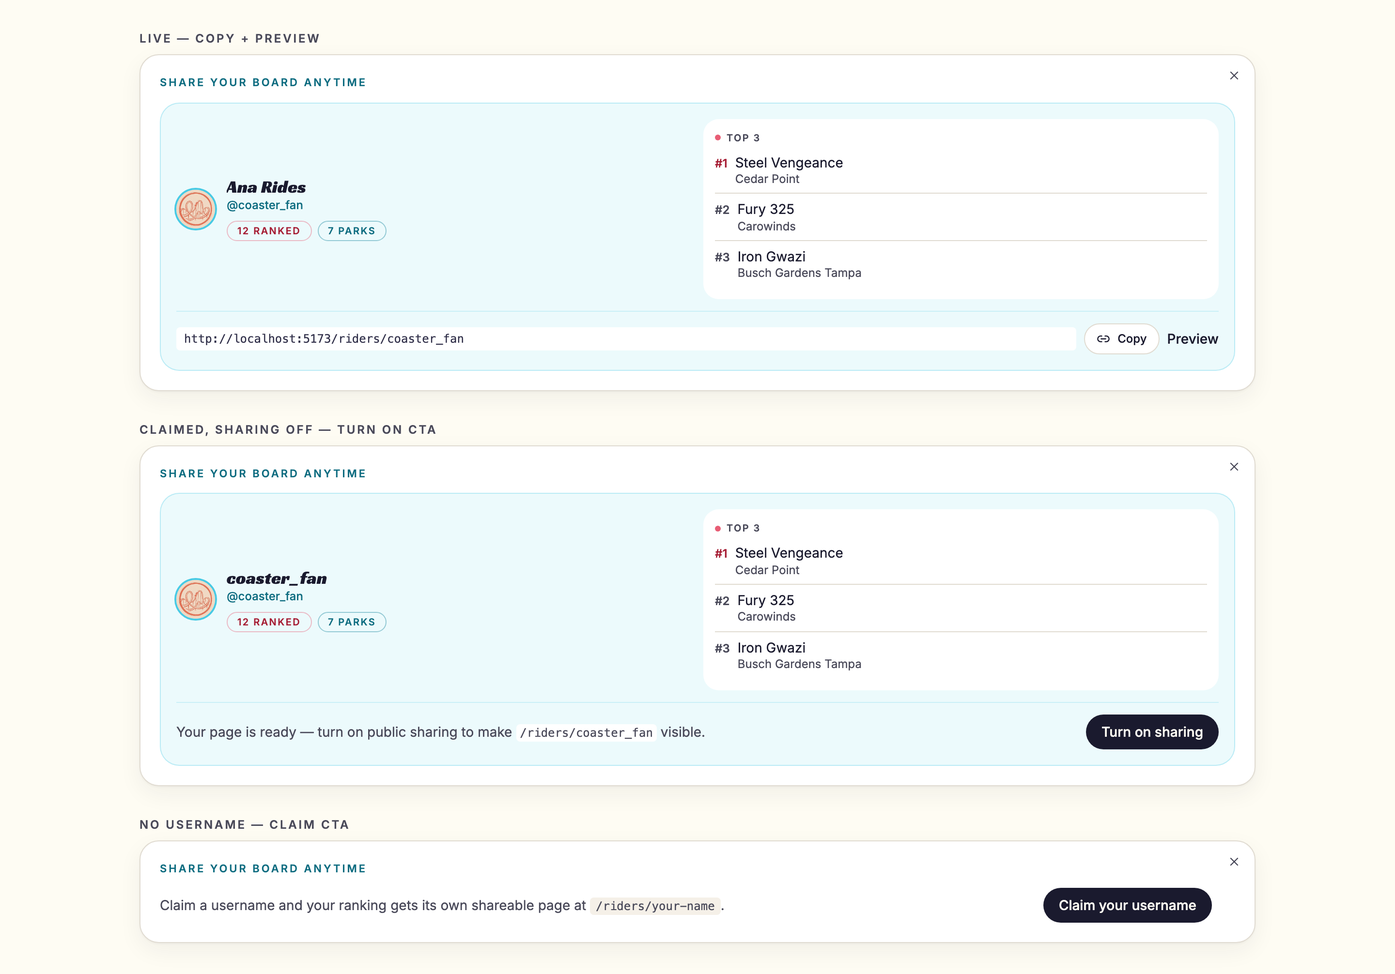
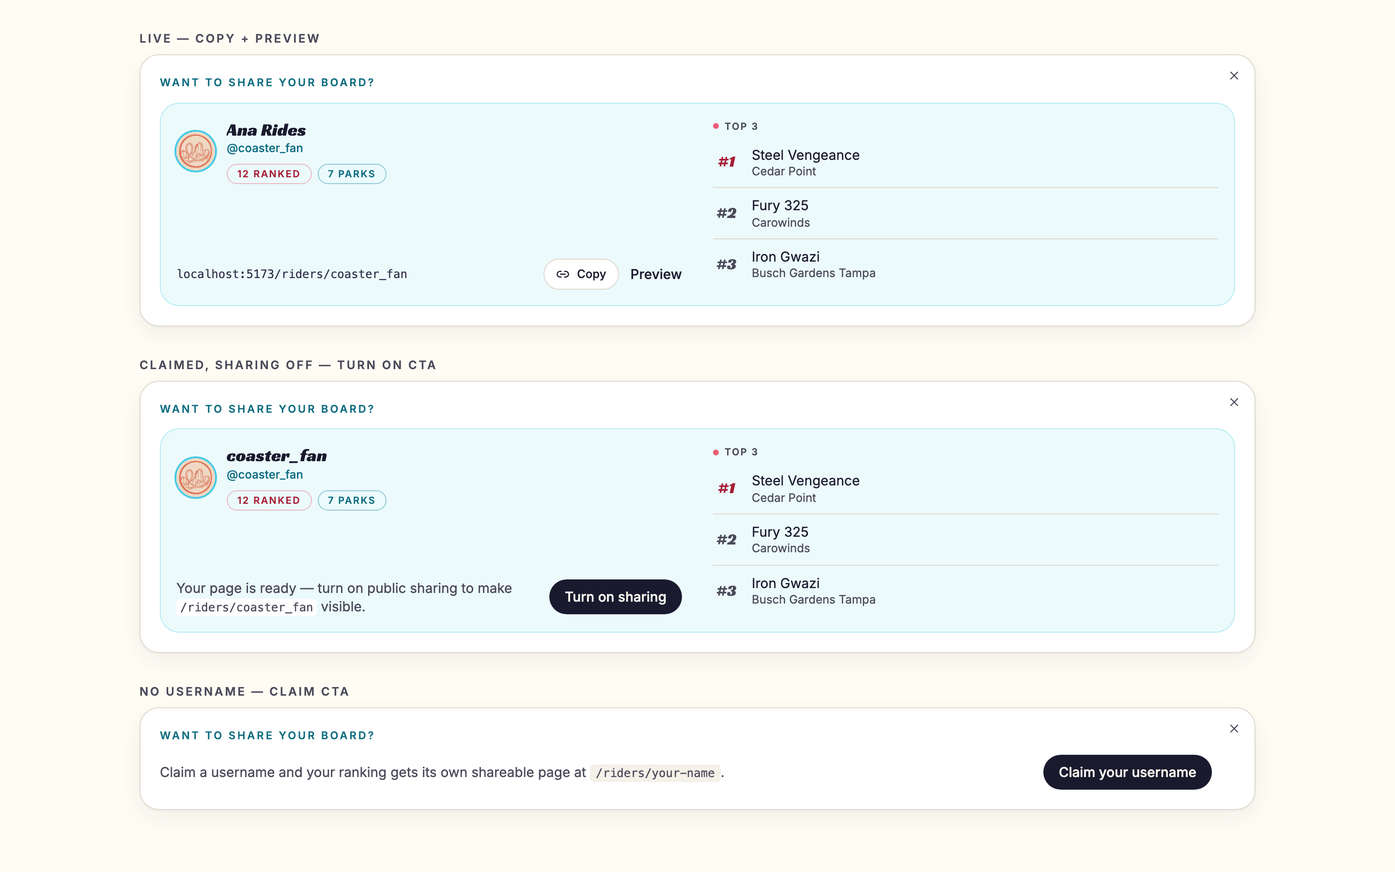
feat: flatten share-nudge card, brand-font ranks, mobile placement swap
Feedback round: drop the white inner panel — the top-3 rows sit
directly on the accent-tinted card (one layer, no cards-in-cards);
rank numerals switch to Racing Sans One with #1 coral, matching the
ranking list and OG card; the rider URL becomes plain mono text with
the protocol stripped (Copy still takes the full URL); url/copy/
preview tuck into the identity column's empty space instead of a
full-width row; eyebrow copy becomes "Want to share your board?".
On mobile the banner now renders between the title and the Import
list button (flex-wrap ordering) so Import stays adjacent to the
search/ranking machinery; desktop keeps Import top-right. The
no-username branch stays: signup collects a username but
handle_new_user() falls back to NULL on unique-violation races.
Preview shots refreshed.

diff --git a/app/src/components/ShareNudgeBanner.tsx b/app/src/components/ShareNudgeBanner.tsx
@@ -29,10 +29,11 @@ const pillCoral = `${pill} border-coral/40 text-coral-text`
 const pillCyan = `${pill} border-accent-dark/40 text-accent-ink`
 
 /**
- * The subtle share nudge on My Coasters: "Share your board anytime" over a
- * flat, simplified take on the rider OG share card — an accent-tinted
- * mini-card with the avatar, display-font name, ranked/parks pills, a live
- * top-3 mini table, and the copyable rider URL right in the card. The
+ * The subtle share nudge on My Coasters: "Want to share your board?" over a
+ * flat, simplified take on the rider OG share card — a single accent-tinted
+ * card with the avatar, display-font name, ranked/parks pills and the
+ * copyable rider URL + copy/preview tucked beneath, and the OG card's top-3
+ * rows (Racing Sans One ranks, #1 coral) directly on the tint. The
  * turn-on/claim CTA covers whatever step is still missing. Eligibility is
  * one-shot server-side (see lib/share-nudge.ts); dismissal is session-local
  * state only.
@@ -49,6 +50,8 @@ export default function ShareNudgeBanner({
   onDismiss,
 }: ShareNudgeBannerProps) {
   const url = username && publicList ? riderPageUrl(username) : null
+  // Display without the protocol — the copy button still copies the full URL.
+  const urlShown = url?.replace(/^https?:\/\//, '')
 
   return (
     <Panel className="relative p-4 sm:p-5" data-testid="share-nudge-banner">
@@ -62,13 +65,13 @@ export default function ShareNudgeBanner({
       </button>
 
       <p className="text-[11px] font-semibold uppercase tracking-[0.18em] text-accent-ink">
-        Share your board anytime
+        Want to share your board?
       </p>
 
       {username ? (
-        <div className="mt-3 rounded-xl border border-accent/30 bg-accent/10 p-3.5 pr-4 sm:p-4">
-          <div className="flex flex-wrap gap-3">
-            <div className="flex min-w-0 flex-1 basis-64 items-center gap-3">
+        <div className="mt-3 flex flex-wrap gap-x-8 gap-y-4 rounded-xl border border-accent/30 bg-accent/10 p-4">
+          <div className="flex min-w-0 flex-1 basis-72 flex-col justify-between gap-3">
+            <div className="flex items-center gap-3">
               <Avatar
                 src={avatarUrl}
                 userId={userId}
@@ -87,67 +90,67 @@ export default function ShareNudgeBanner({
               </div>
             </div>
 
-            {topThree.length > 0 && (
-              <div className="min-w-0 flex-1 basis-64 rounded-lg bg-surface-bright p-3">
-                <p className="flex items-center gap-1.5 text-[10px] font-semibold uppercase tracking-[0.12em] text-muted">
-                  <span className="h-1.5 w-1.5 rounded-full bg-coral" aria-hidden="true" />
-                  Top 3
+            {url ? (
+              <div className="flex flex-wrap items-center gap-x-3 gap-y-2">
+                <span className="w-full min-w-0 truncate font-mono text-xs text-ink-soft sm:w-auto sm:flex-1 sm:basis-40">
+                  {urlShown}
+                </span>
+                <CopyLinkButton url={url} label="Copy" />
+                <Link
+                  to={`/riders/${username}`}
+                  className="text-sm font-medium text-ink underline-offset-4 hover:underline"
+                >
+                  Preview
+                </Link>
+              </div>
+            ) : (
+              <div className="flex flex-wrap items-center justify-between gap-x-4 gap-y-2">
+                <p className="min-w-0 flex-1 basis-64 text-sm leading-snug text-muted">
+                  Your page is ready — turn on public sharing to make{' '}
+                  <code className="rounded bg-surface-bright px-1 py-0.5 font-mono text-xs">
+                    /riders/{username}
+                  </code>{' '}
+                  visible.
                 </p>
-                <ul className="mt-1 divide-y divide-line">
-                  {topThree.map((ride) => (
-                    <li key={ride.rank} className="flex items-baseline gap-2 py-1.5 first:pt-1">
-                      <span
-                        className={`text-xs font-semibold ${
-                          ride.rank === 1 ? 'text-coral-text' : 'text-muted'
-                        }`}
-                      >
-                        #{ride.rank}
-                      </span>
-                      <span className="min-w-0">
-                        <span className="block truncate text-sm leading-snug text-ink">
-                          {ride.name}
-                        </span>
-                        {ride.parkName && (
-                          <span className="block truncate text-xs leading-snug text-muted">
-                            {ride.parkName}
-                          </span>
-                        )}
-                      </span>
-                    </li>
-                  ))}
-                </ul>
+                <Link
+                  to="/me/profile"
+                  className="rounded-full bg-ink px-4 py-2 text-sm font-medium text-canvas transition-colors hover:bg-ink-soft"
+                >
+                  Turn on sharing
+                </Link>
               </div>
             )}
           </div>
 
-          {url ? (
-            <div className="mt-3 flex flex-wrap items-center gap-2 border-t border-accent/20 pt-3">
-              <code className="min-w-0 flex-1 truncate rounded bg-surface-bright px-2 py-1 font-mono text-xs text-ink-soft">
-                {url}
-              </code>
-              <CopyLinkButton url={url} label="Copy" />
-              <Link
-                to={`/riders/${username}`}
-                className="text-sm font-medium text-ink underline-offset-4 hover:underline"
-              >
-                Preview
-              </Link>
-            </div>
-          ) : (
-            <div className="mt-3 flex flex-wrap items-center justify-between gap-x-4 gap-y-2 border-t border-accent/20 pt-3">
-              <p className="text-sm text-muted">
-                Your page is ready — turn on public sharing to make{' '}
-                <code className="rounded bg-surface-bright px-1 py-0.5 font-mono text-xs">
-                  /riders/{username}
-                </code>{' '}
-                visible.
+          {topThree.length > 0 && (
+            <div className="min-w-0 flex-1 basis-72">
+              <p className="flex items-center gap-1.5 text-[10px] font-semibold uppercase tracking-[0.12em] text-muted">
+                <span className="h-1.5 w-1.5 rounded-full bg-coral" aria-hidden="true" />
+                Top 3
               </p>
-              <Link
-                to="/me/profile"
-                className="rounded-full bg-ink px-4 py-2 text-sm font-medium text-canvas transition-colors hover:bg-ink-soft"
-              >
-                Turn on sharing
-              </Link>
+              <ul className="mt-1 divide-y divide-line">
+                {topThree.map((ride) => (
+                  <li key={ride.rank} className="flex items-center gap-3 py-2 first:pt-2">
+                    <span
+                      className={`display-heading w-7 text-center text-base leading-none ${
+                        ride.rank === 1 ? 'text-coral-text' : 'text-muted'
+                      }`}
+                    >
+                      #{ride.rank}
+                    </span>
+                    <span className="min-w-0">
+                      <span className="block truncate text-sm leading-snug text-ink">
+                        {ride.name}
+                      </span>
+                      {ride.parkName && (
+                        <span className="block truncate text-xs leading-snug text-muted">
+                          {ride.parkName}
+                        </span>
+                      )}
+                    </span>
+                  </li>
+                ))}
+              </ul>
             </div>
           )}
         </div>

diff --git a/app/src/pages/MyCoastersPage.tsx b/app/src/pages/MyCoastersPage.tsx
@@ -223,20 +223,50 @@ export default function MyCoastersPage() {
 
   return (
     <div>
-      <PageHeader
-        title="My Coasters"
-        description={
-          rankedCount > 0
-            ? `${rankedCount} coaster${rankedCount === 1 ? '' : 's'} ranked`
-            : 'Search for coasters below to start building your list.'
-        }
-        action={
-          <Button variant="outline" size="sm" onClick={() => setImportOpen(true)}>
+      {/* Custom header layout (vs. PageHeader) so the share nudge can sit
+          between the title and the Import list button on mobile — the import
+          entry point belongs next to the search/ranking machinery, not
+          separated from it by the banner. Desktop keeps Import top-right. */}
+      <div className="flex flex-wrap items-end justify-between gap-x-6 gap-y-5">
+        <div className="order-1 min-w-0 sm:flex-1">
+          <PageHeader
+            title="My Coasters"
+            description={
+              rankedCount > 0
+                ? `${rankedCount} coaster${rankedCount === 1 ? '' : 's'} ranked`
+                : 'Search for coasters below to start building your list.'
+            }
+          />
+        </div>
+
+        {showShareNudge && profile && (
+          <div className="order-2 w-full sm:order-3">
+            <ShareNudgeBanner
+              userId={profile.id}
+              username={profile.username}
+              displayName={profile.display_name}
+              avatarUrl={profile.avatar_url}
+              publicList={profile.public_list}
+              rankedCount={nudge.ranked_count}
+              parkCount={parkCount}
+              topThree={topThree}
+              onDismiss={() => setNudgeDismissed(true)}
+            />
+          </div>
+        )}
+
+        <div className="order-3 w-full sm:order-2 sm:w-auto">
+          <Button
+            variant="outline"
+            size="sm"
+            className="w-full sm:w-auto"
+            onClick={() => setImportOpen(true)}
+          >
             <Upload className="h-3.5 w-3.5" />
             Import list
           </Button>
-        }
-      />
+        </div>
+      </div>
 
       {showWelcome && user?.id && (
         <WelcomeModal
@@ -258,22 +288,6 @@ export default function MyCoastersPage() {
         onApplied={handleImportApplied}
         onError={handleError}
       />
-
-      {showShareNudge && profile && (
-        <div className="mt-6">
-          <ShareNudgeBanner
-            userId={profile.id}
-            username={profile.username}
-            displayName={profile.display_name}
-            avatarUrl={profile.avatar_url}
-            publicList={profile.public_list}
-            rankedCount={nudge.ranked_count}
-            parkCount={parkCount}
-            topThree={topThree}
-            onDismiss={() => setNudgeDismissed(true)}
-          />
-        </div>
-      )}
 
       <div ref={searchSentinelRef} aria-hidden="true" className="h-px" />
 

diff --git a/app/src/components/ShareNudgeBanner.test.tsx b/app/src/components/ShareNudgeBanner.test.tsx
@@ -32,9 +32,9 @@ function renderBanner(props: Partial<Parameters<typeof ShareNudgeBanner>[0]> = {
 }
 
 describe('ShareNudgeBanner', () => {
-  it('leads with the share-your-board eyebrow', () => {
+  it('leads with the want-to-share eyebrow', () => {
     renderBanner()
-    expect(screen.getByText('Share your board anytime')).toBeInTheDocument()
+    expect(screen.getByText('Want to share your board?')).toBeInTheDocument()
   })
 
   it('previews the mini card with pills, top-3 table, and the copyable url inside', () => {
@@ -47,7 +47,10 @@ describe('ShareNudgeBanner', () => {
     expect(screen.getByText('Cedar Point')).toBeInTheDocument()
     expect(screen.getByText('#1')).toBeInTheDocument()
     expect(screen.getByText('#3')).toBeInTheDocument()
-    expect(screen.getByText(`${window.location.origin}/riders/coaster_fan`)).toBeInTheDocument()
+    // Displayed without the protocol; the copy button still gets the full URL.
+    expect(
+      screen.getByText(`${window.location.origin.replace(/^https?:\/\//, '')}/riders/coaster_fan`),
+    ).toBeInTheDocument()
     expect(screen.getByRole('button', { name: /copy/i })).toBeInTheDocument()
     expect(screen.getByRole('link', { name: /preview/i })).toHaveAttribute(
       'href',

diff --git a/docs/PLAN.md b/docs/PLAN.md
@@ -32,7 +32,7 @@ A multi-user webapp where users rank the roller coasters they've ridden, and eve
 | Board meta + homepage rework (2026-09) | `/api/ranking` gains `last_recomputed_at` + `real_user_count` via a new `public_board_meta()` security-definer RPC (aggregate-only, anon-granted like `ranked_user_count()`; source: `cron_execution_logs` success row + profiles minus admins minus synthetic). Homepage: lockup scaled ~12%, TrackLine removed, status line always-rendered with skeletons (CLS slot `min-h-[60vh|65vh]`), gated user count (>50, desktop-only), `Live ●` popunder (hover shows / click pins; `last_recomputed_at` preferred), plain `About` link → `/about` stub, table rework (Country column dropped, GCI/CCI acronyms, white rank circles with display-font accent numerals + ink drop shadow on every rank, muted coral podium ramp 0.05/0.03/0.015, ~5% denser rows desktop+mobile, accent-tint rounded score pill, both layouts CSS-gated). Remaining open call: hero line placement A/B (mocked on the design board `/design.html`, dev-only). | Worker holds only the anon key (profiles/cron logs are RLS-locked; `coaster_ratings.updated_at` is first-insert stale), so one aggregate RPC is the only clean source; UI rework tracked as the homepage punchlist (§1–§8), final calls decided 2026-09-05. |
 | Full About + FAQ pages (2026-09) | `/about` rewritten from stub to full copy: open-source framing, layperson Bradley–Terry explainer (head-to-heads not stars, 100 = community average, per-rider influence normalization), personal backstory (VoteCoasters credit + link, "weekend project" gag), contribution asks (code/data/riding), `— pandeiro` handle sign-off. New `/faq` route (8 starter Q&As) linked from About + footer. Opt-in math disclosures (`MathDisclosure` component): collapsed by default, first open lazy-`import()`s **KaTeX** (+CSS/fonts) via a dynamic chunk — zero main-bundle cost; two inserts cover the BT probability model + MM update with anchor/λ rationale (from `packages/bt/src/mm.ts`) and the per-user weighting `w = 1/(n(n-1)/2)`; display equations sit in boxed rows that stack via `aligned` so 390px viewports don't clip. Tests assert collapsed default + lazy KaTeX render. | Normies get the plain-English story; the math is one sigma-pill click away. KaTeX over MathJax for bundle weight; disclosure content mirrors the real fit (not a simplified variant) so it can't drift from `packages/bt`. Deeper math treatment stays reserved for a future GH wiki page. |
 | Ranking-milestone share CTAs (2026-09, **removed**) | The 5/10-ranked milestone share CTAs on `/me` (`ShareListCard` + `lib/share-cta.ts`, per-milestone localStorage dismissal) are **scrapped** — `/me` stays a pure ranking surface. Share discovery remains where it belongs: `/me/profile` (URL display + copy link + opt-in toggle; `CopyLinkButton` extracted to its own component). Replaced days later by the idle-settled banner (next row) once the placement was rethought. | Just gets in the way on the primary ranking surface and doesn't drive shares; milestone framing ("5 ranked!") felt gamified-noisy rather than useful. |
-| Share nudge v2: idle-settled banner (2026-09) | A subtle, dismissible banner above the `/me` list — a **"Share your board anytime"** eyebrow over a flat, simplified take on the rider OG share card: a light accent-tinted mini-card (cyan-ringed avatar, display-font name, cyan @handle, `N ranked` coral / `N parks` cyan outline pills), a live **top-3 mini table** (`#1` coral, #2/#3 muted, name + park — park names ride along in the existing `useMyRides` embed via `parks(name, country)`), and the copyable rider URL + copy + preview on a divider row **inside the card**; claim-username / turn-on-sharing CTAs cover the missing steps. Eligibility is ONE server-side RPC, `share_nudge_eligibility()`, called only at the My Coasters mount (never the board or coaster/park detail pages, never a modal on load): `profiles.share_nudge_shown_at IS NULL` AND ranked_count ≥ 5 (floor — nobody's "settled" this early) AND last ranked-ride edit ≥ 48h idle (settled, not mid-session tweaking). The RPC decides AND claims atomically — claim is `UPDATE profiles SET share_nudge_shown_at = now() WHERE id = auth.uid() AND share_nudge_shown_at IS NULL`, returning `found` as `eligible`, so multi-tab/multi-mount races collapse to exactly one banner ever. Dismiss is session-local UI state; no "dismissed" write exists. Data: one nullable column `profiles.share_nudge_shown_at`, written only by the RPC (deliberately kept off the client update-column whitelist). `user_rides.updated_at` was UPDATE-trigger-only (rank changes), leaving imported/once-ranked rows NULL forever → the trigger now stamps INSERTs too, plus a one-time backfill (`update user_rides set updated_at = now() where updated_at is null`) whose `now()` baseline is an honest conservative floor (long-idle lists become eligible ~48h post-deploy, nobody is misclassified as recently active). Client: `useShareNudge` (`staleTime: Infinity` — repeat mounts reuse the session's verdict instead of re-calling the claiming RPC). | The milestone card got in the way; idle ≥48h targets "settled" riders and never interrupts an active session; one-shot + local dismiss keeps it subtle; the accent-tinted card with top-3 + in-card URL borrows the OG card's composition (identity / top rows / url) at banner scale without its stark dark block, so the preview advertises what sharing actually looks like. SCHEMA.md must be regenerated post-merge (generator reads the live DB). |
+| Share nudge v2: idle-settled banner (2026-09) | A subtle, dismissible banner above the `/me` list — a **"Want to share your board?"** eyebrow over a flat, simplified take on the rider OG share card: ONE light accent-tinted card (no nested panels) — identity block (cyan-ringed avatar, display-font name, cyan @handle, `N ranked` coral / `N parks` cyan outline pills) with the rider URL (plain mono text, protocol stripped; Copy still takes the full URL) + copy/preview actions tucked into the column's empty space beneath it, the OG card's **top-3 rows** directly on the tint (Racing Sans One `#N` ranks, `#1` coral, #2/#3 muted, name + park — park names ride along in the existing `useMyRides` embed via `parks(name, country)`); turn-on-sharing / claim-username CTAs cover the missing steps (the claim branch stays: signup collects a username, but `handle_new_user()` deliberately falls back to `username = NULL` on unique-violation signup races — those users claim later). On mobile only, the banner renders between the page title and the full-width Import list button (flex-wrap ordering), keeping Import adjacent to the search/ranking machinery; desktop keeps Import top-right. Eligibility is ONE server-side RPC, `share_nudge_eligibility()`, called only at the My Coasters mount (never the board or coaster/park detail pages, never a modal on load): `profiles.share_nudge_shown_at IS NULL` AND ranked_count ≥ 5 (floor — nobody's "settled" this early) AND last ranked-ride edit ≥ 48h idle (settled, not mid-session tweaking). The RPC decides AND claims atomically — claim is `UPDATE profiles SET share_nudge_shown_at = now() WHERE id = auth.uid() AND share_nudge_shown_at IS NULL`, returning `found` as `eligible`, so multi-tab/multi-mount races collapse to exactly one banner ever. Dismiss is session-local UI state; no "dismissed" write exists. Data: one nullable column `profiles.share_nudge_shown_at`, written only by the RPC (deliberately kept off the client update-column whitelist). `user_rides.updated_at` was UPDATE-trigger-only (rank changes), leaving imported/once-ranked rows NULL forever → the trigger now stamps INSERTs too, plus a one-time backfill (`update user_rides set updated_at = now() where updated_at is null`) whose `now()` baseline is an honest conservative floor (long-idle lists become eligible ~48h post-deploy, nobody is misclassified as recently active). Client: `useShareNudge` (`staleTime: Infinity` — repeat mounts reuse the session's verdict instead of re-calling the claiming RPC). | The milestone card got in the way; idle ≥48h targets "settled" riders and never interrupts an active session; one-shot + local dismiss keeps it subtle; the single accent-tinted card borrows the OG card's composition (identity / top rows / url) at banner scale without its stark dark block or nested panels, so the preview advertises what sharing actually looks like. SCHEMA.md must be regenerated post-merge (generator reads the live DB). |
 | Email stack: Resend SMTP + branded templates (2026-09) | Auth email leaves via **Resend SMTP** (Supabase Auth custom SMTP; sender `ops@coasterrank.app` "CoasterRank Ops"; free tier 100/day). Branded, text-first HTML templates for **confirm-signup / magic-link+OTP / reset-password / invite** live in **`supabase/email-templates/`** as the reviewed source of truth and are applied with `scripts` `sync-email-templates` (Management API `PATCH config/auth` of **only** `mailer_subjects_*` + `mailer_templates_*_content`; dry-run default, `--apply` verifies by re-read). Design system: table layout, inline CSS only, cream canvas + ink text + cyan CTA pill + coral lap-bar accent, single small mark image (alt-text graceful when Gmail blocks images), hidden preheaders, plain-link fallback, reply-friendly footer. SPA wiring: `/forgot-password` → `/reset-password` (recovery round-trip preserves `?next` deep links), "Email me a sign-in link" with 8-digit code entry (`signInWithOtp` + `verifyOtp`), invited banner on `/login?invited=1`, profile set/change-password panel; **admin invite** via `admin-users` POST `{action:'invite'}` (fixed prod redirect; GoTrue creates the unconfirmed user, trigger bootstraps the profile — invitees start passwordless). Expiry copy coupled to dashboard `mailer_otp_exp=3600` / `mailer_otp_length=8`. Deferred: submission-reviewed notifications, digests, Resend bounce/complaint webhooks, non-auth transactional mail via Resend API. **User-to-user invites designed but deferred**: `invites` table (inviter, invitee email, accepted_at, invitee_id) + `invite_within_cap()` (~5 pending + modest lifetime cap, mirroring `submission_within_cap()`), confirmed-email gate on the inviter, fixed email copy (no custom message), admin visibility + cancel (= delete the unconfirmed row), kill-switch secret, `profiles.referred_by` fed from invite metadata via `handle_new_user()`. Rationale: the abuse risk is not in-app spam — invites email *third parties from coasterrank.app*, and invite abuse burns the sender reputation ALL auth email rides on (Resend pauses ~0.08% complaints; the free tier's 100/day is shared with auth email). | Default Supabase emails are rate-limited (2/hr) and unbranded; Resend free tier + validated domain gives deliverability + trust. Templates in git = reviewable diffs instead of dashboard click-ops (config isn't migratable). Passwordless sign-in makes invited accounts workable from day one and kills most "forgot password" pain; reset flow still required as the escape hatch. |
 
 ## 3. Architecture

diff --git a/docs/previews/share-nudge/README.md b/docs/previews/share-nudge/README.md
@@ -7,10 +7,10 @@ Screenshots for the idle-settled share nudge (PLAN §2 "Share nudge v2"), captur
 
 | File | Shows |
 | --- | --- |
-| `share-nudge-states-desktop.png` | The banner's three states, desktop: live (copy + preview), claimed-but-not-sharing (turn-on CTA), no username (claim CTA). Each leads with the "Share your board anytime" eyebrow over the accent-tinted mini-card: avatar, display-font name, cyan @handle, ranked/parks pills, a live top-3 mini table, and the copyable rider URL in the card. |
-| `share-nudge-states-mobile.png` | Same three states at 390px — the card stacks (identity, top-3 table, URL/CTA rows) full-width. |
-| `share-nudge-placement-desktop.png` | The live banner in context on `/me`, between the page header and the sticky search bar. |
-| `share-nudge-placement-mobile.png` | Same placement at 390px (viewport crop). |
+| `share-nudge-states-desktop.png` | The banner's three states, desktop: live (copy + preview), claimed-but-not-sharing (turn-on CTA), no username (claim CTA). Each leads with the "Want to share your board?" eyebrow over a single accent-tinted card — avatar, display-font name, cyan @handle, ranked/parks pills, copy/preview actions tucked beneath, and the OG card's top-3 rows (Racing Sans One ranks, #1 coral) directly on the tint. |
+| `share-nudge-states-mobile.png` | Same three states at 390px — the card stacks (identity, url/actions, top-3 table) full-width. |
+| `share-nudge-placement-desktop.png` | The live banner in context on `/me`, below the header row (Import list stays top-right). |
+| `share-nudge-placement-mobile.png` | Same placement at 390px — the banner sits above the full-width Import list button, keeping Import adjacent to the search bar and ranking table. |
 
 ## How they were captured
 
